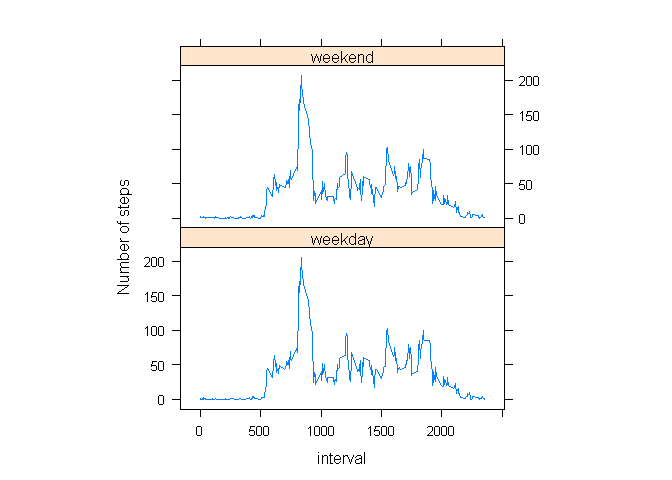
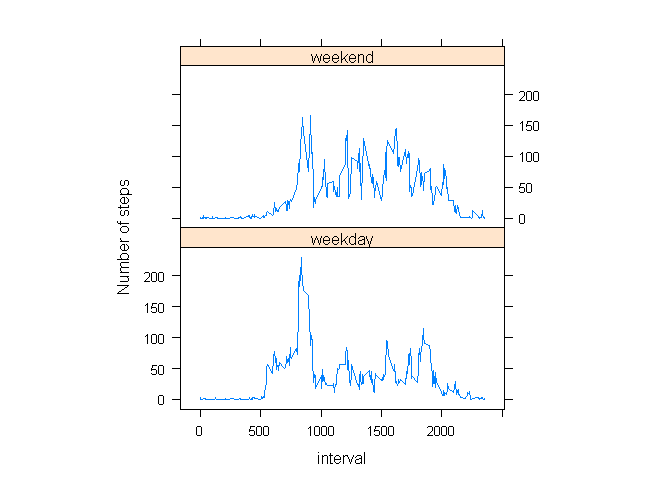
Added comments, fixed weekdays mistake for final graph

diff --git a/PA1_template.html b/PA1_template.html
@@ -99,6 +99,7 @@ summary(data)</code></pre>
 <li>If you do not understand the difference between a histogram and a barplot, research the difference between them. Make a histogram of the total number of steps taken each day</li>
 <li>Calculate and report the mean and median of the total number of steps taken per day</li>
 </ol>
+<p>Using power of “data.table” and “dplyr” package to answer on question. After that plotting frequency histogram of total number of steps taken each day. Mean and Median represented on the graph as red and green line correspondingly.</p>
 <pre class="r"><code>require(data.table)
 require(dplyr)
 data1 &lt;- data
@@ -129,6 +130,7 @@ legend(&quot;topright&quot;,
 <li>Make a time series plot (i.e. type = “l”) of the 5-minute interval (x-axis) and the average number of steps taken, averaged across all days (y-axis)</li>
 <li>Which 5-minute interval, on average across all the days in the dataset, contains the maximum number of steps?</li>
 </ol>
+<p>Again using “data.table” and “dplyr” packages to deal with data and plotting the graph. Max value of steps and corresponding interval value shown in legend.</p>
 <pre class="r"><code>require(data.table)
 require(dplyr)
 data2 &lt;- data
@@ -156,7 +158,11 @@ legend(&quot;topright&quot;,
 </div>
 <div id="imputing-missing-values" class="section level2">
 <h2>Imputing missing values</h2>
-<p>Note that there are a number of days/intervals where there are missing values (coded as NA). The presence of missing days may introduce bias into some calculations or summaries of the data. 1. Calculate and report the total number of missing values in the dataset (i.e. the total number of rows with NAs)</p>
+<p>Note that there are a number of days/intervals where there are missing values (coded as NA). The presence of missing days may introduce bias into some calculations or summaries of the data.</p>
+<ol style="list-style-type: decimal">
+<li>Calculate and report the total number of missing values in the dataset (i.e. the total number of rows with NAs)</li>
+</ol>
+<p>Just doing that.</p>
 <pre class="r"><code>totalMissingValues&lt;-sum(!complete.cases(data))
 totalMissingValues</code></pre>
 <pre><code>## [1] 2304</code></pre>
@@ -164,6 +170,7 @@ totalMissingValues</code></pre>
 <li>Devise a strategy for filling in all of the missing values in the dataset. The strategy does not need to be sophisticated. For example, you could use the mean/median for that day, or the mean for that 5-minute interval, etc.</li>
 <li>Create a new dataset that is equal to the original dataset but with the missing data filled in.</li>
 </ol>
+<p>Filling NA values in steps with mean of 5 minute interval. After that grouping data set by “date” and getting the sum of steps using “dplyr” package.</p>
 <pre class="r"><code>require(data.table)
 require(dplyr)
 data3 &lt;- data
@@ -186,6 +193,7 @@ data3[,steps:=ifelse(is.na(steps),mean(steps,na.rm=T),steps),by=&quot;interval&q
 <ol start="4" style="list-style-type: decimal">
 <li>Make a histogram of the total number of steps taken each day and Calculate and report the mean and median total number of steps taken per day. Do these values differ from the estimates from the first part of the assignment? What is the impact of imputing missing data on the estimates of the total daily number of steps?</li>
 </ol>
+<p>Now we can see that Mean and Median Value is the same: red line and green dotted line.</p>
 <pre class="r"><code>with(dataGroup3,{
 hist(steps,breaks=50,xlab=&quot;Steps&quot;,main=&quot;Total number of steps taken per day (NA is Mean of 5 Min Interval)&quot;)
 abline(v=mean(steps),col=&quot;red&quot;,lty=1)
@@ -209,9 +217,10 @@ legend(&quot;topright&quot;,
 <ol style="list-style-type: decimal">
 <li>Create a new factor variable in the dataset with two levels – “weekday” and “weekend” indicating whether a given date is a weekday or weekend day.</li>
 </ol>
+<p>Creating “data.table” data set with factor values.</p>
 <pre class="r"><code>require(data.table)
 data4&lt;-data
-data4[,daytype:=factor(ifelse(wday(date) %in% c(1:5),&quot;weekday&quot;,&quot;weekend&quot;))]</code></pre>
+data4[,daytype:=factor(ifelse(wday(date) %in% c(2:6),&quot;weekday&quot;,&quot;weekend&quot;))]</code></pre>
 <pre><code>##            steps       date interval daytype
 ##     1: 1.7169811 2012-10-01        0 weekday
 ##     2: 0.3396226 2012-10-01        5 weekday
@@ -219,22 +228,23 @@ data4[,daytype:=factor(ifelse(wday(date) %in% c(1:5),&quot;weekday&quot;,&quot;w
 ##     4: 0.1509434 2012-10-01       15 weekday
 ##     5: 0.0754717 2012-10-01       20 weekday
 ##    ---                                      
-## 17564: 4.6981132 2012-11-30     2335 weekend
-## 17565: 3.3018868 2012-11-30     2340 weekend
-## 17566: 0.6415094 2012-11-30     2345 weekend
-## 17567: 0.2264151 2012-11-30     2350 weekend
-## 17568: 1.0754717 2012-11-30     2355 weekend</code></pre>
+## 17564: 4.6981132 2012-11-30     2335 weekday
+## 17565: 3.3018868 2012-11-30     2340 weekday
+## 17566: 0.6415094 2012-11-30     2345 weekday
+## 17567: 0.2264151 2012-11-30     2350 weekday
+## 17568: 1.0754717 2012-11-30     2355 weekday</code></pre>
 <ol start="2" style="list-style-type: decimal">
 <li>Make a panel plot containing a time series plot (i.e. type = “l”) of the 5-minute interval (x-axis) and the average number of steps taken, averaged across all weekday days or weekend days (y-axis). See the README file in the GitHub repository to see an example of what this plot should look like using simulated data.</li>
 </ol>
+<p>Grouping data set by interval and factor value and after that calculating the mean.</p>
 <pre class="r"><code>require(dplyr)
 require(lattice)</code></pre>
 <pre><code>## Loading required package: lattice</code></pre>
 <pre class="r"><code>dataGroup4 &lt;- data4 %&gt;%
-                group_by(interval) %&gt;%
-                    summarise(daytype=daytype,steps=mean(steps,na.rm=T))
+                group_by(interval,daytype) %&gt;%
+                    summarise(steps=mean(steps,na.rm=T))
 xyplot(steps ~ interval | factor(daytype), data = dataGroup4, aspect = 1/2, type = &quot;l&quot;,ylab=&quot;Number of steps&quot;)</code></pre>
[2 lines of base64/hex data omitted]
 <p>Clear</p>
 <pre class="r"><code>rm(data4,dataGroup4)</code></pre>
 </div>

diff --git a/PA1_template.md b/PA1_template.md
@@ -49,6 +49,8 @@ For this part of the assignment, you can ignore the missing values in the datase
 1.  If you do not understand the difference between a histogram and a barplot, research the difference between them. Make a histogram of the total number of steps taken each day
 1.  Calculate and report the mean and median of the total number of steps taken per day
 
+Using power of "data.table" and "dplyr" package to answer on question. After that plotting frequency histogram of total number of steps taken each day. Mean and Median represented on the graph as red and green line correspondingly. 
+
 
 ```r
 require(data.table)
@@ -86,6 +88,8 @@ rm(data1,dataGroup1)
 1.  Make a time series plot (i.e. type = "l") of the 5-minute interval (x-axis) and the average number of steps taken, averaged across all days (y-axis)
 2.  Which 5-minute interval, on average across all the days in the dataset, contains the maximum number of steps?
 
+Again using "data.table" and "dplyr" packages to deal with data and plotting the graph. Max value of steps and corresponding interval value shown in legend.
+
 
 ```r
 require(data.table)
@@ -122,7 +126,10 @@ rm(data2,dataGroup2)
 
 ## Imputing missing values
 Note that there are a number of days/intervals where there are missing values (coded as NA). The presence of missing days may introduce bias into some calculations or summaries of the data.
+
 1.  Calculate and report the total number of missing values in the dataset (i.e. the total number of rows with NAs)
+
+Just doing that.
 
 
 ```r
@@ -137,6 +144,9 @@ totalMissingValues
 
 2.  Devise a strategy for filling in all of the missing values in the dataset. The strategy does not need to be sophisticated. For example, you could use the mean/median for that day, or the mean for that 5-minute interval, etc.
 3.  Create a new dataset that is equal to the original dataset but with the missing data filled in.
+
+Filling NA values in steps with mean of 5 minute interval. After that grouping data set by "date" and getting the sum of steps using "dplyr" package.
+
 
 
 ```r
@@ -169,6 +179,8 @@ dataGroup3 <- data3 %>%
 
 4.  Make a histogram of the total number of steps taken each day and Calculate and report the mean and median total number of steps taken per day. Do these values differ from the estimates from the first part of the assignment? What is the impact of imputing missing data on the estimates of the total daily number of steps?
 
+Now we can see that Mean and Median Value is the same: red line and green dotted line.
+
 
 ```r
 with(dataGroup3,{
@@ -199,11 +211,13 @@ rm(data3,dataGroup3)
 ## Are there differences in activity patterns between weekdays and weekends?
 1.  Create a new factor variable in the dataset with two levels – “weekday” and “weekend” indicating whether a given date is a weekday or weekend day.
 
+Creating "data.table" data set with factor values. 
+
 
 ```r
 require(data.table)
 data4<-data
-data4[,daytype:=factor(ifelse(wday(date) %in% c(1:5),"weekday","weekend"))]
+data4[,daytype:=factor(ifelse(wday(date) %in% c(2:6),"weekday","weekend"))]
 ```
 
 ```
@@ -214,14 +228,16 @@ data4[,daytype:=factor(ifelse(wday(date) %in% c(1:5),"weekday","weekend"))]
 ##     4: 0.1509434 2012-10-01       15 weekday
 ##     5: 0.0754717 2012-10-01       20 weekday
 ##    ---                                      
-## 17564: 4.6981132 2012-11-30     2335 weekend
-## 17565: 3.3018868 2012-11-30     2340 weekend
-## 17566: 0.6415094 2012-11-30     2345 weekend
-## 17567: 0.2264151 2012-11-30     2350 weekend
-## 17568: 1.0754717 2012-11-30     2355 weekend
+## 17564: 4.6981132 2012-11-30     2335 weekday
+## 17565: 3.3018868 2012-11-30     2340 weekday
+## 17566: 0.6415094 2012-11-30     2345 weekday
+## 17567: 0.2264151 2012-11-30     2350 weekday
+## 17568: 1.0754717 2012-11-30     2355 weekday
 ```
 
 2.  Make a panel plot containing a time series plot (i.e. type = "l") of the 5-minute interval (x-axis) and the average number of steps taken, averaged across all weekday days or weekend days (y-axis). See the README file in the GitHub repository to see an example of what this plot should look like using simulated data.
+
+Grouping data set by interval and factor value and after that calculating the mean.
 
 
 ```r
@@ -235,8 +251,8 @@ require(lattice)
 
 ```r
 dataGroup4 <- data4 %>%
-                group_by(interval) %>%
-                    summarise(daytype=daytype,steps=mean(steps,na.rm=T))
+                group_by(interval,daytype) %>%
+                    summarise(steps=mean(steps,na.rm=T))
 xyplot(steps ~ interval | factor(daytype), data = dataGroup4, aspect = 1/2, type = "l",ylab="Number of steps")
 ```
 
